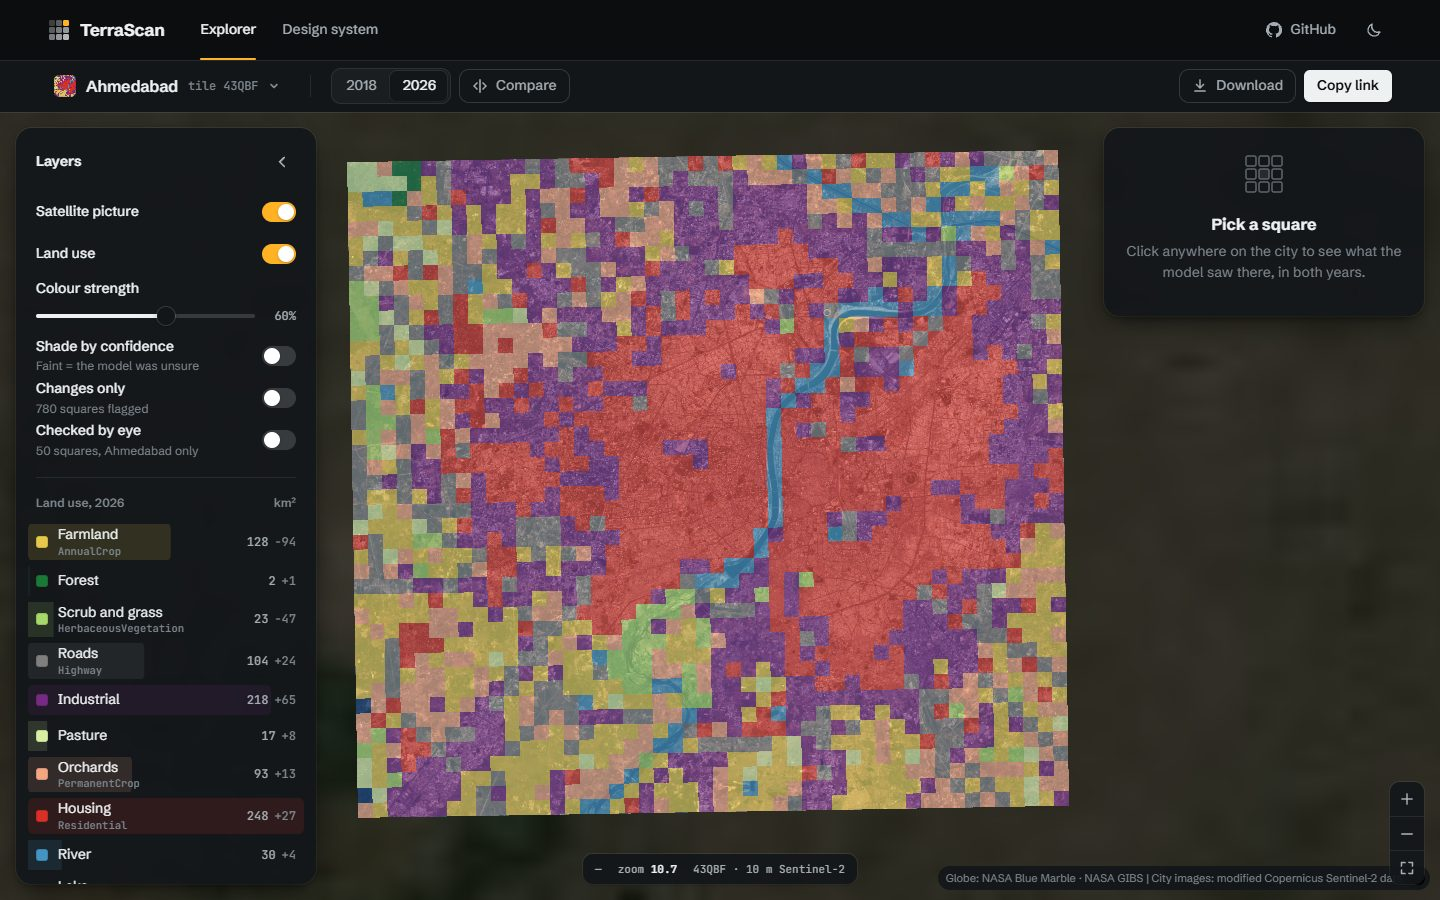
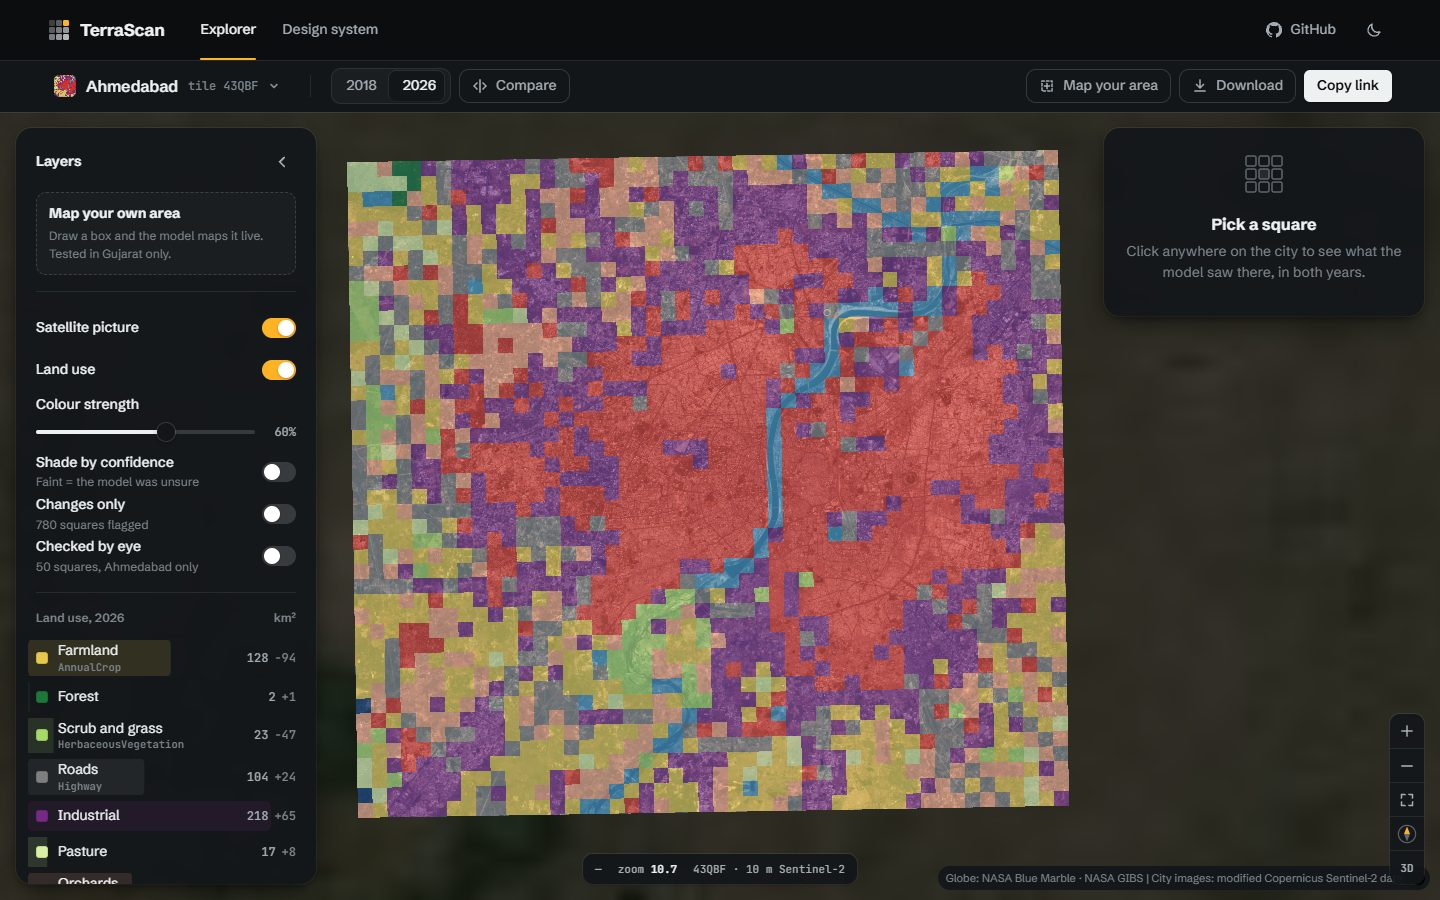
step5.3b (part 3): map view fixes from user feedback - opening lands flat and centred, compass + 3D/2D button, turn/tilt tip, gentler wheel zoom, no turning while drawing an area; live API checked on the laptop

diff --git a/web/src/pages/Explorer.tsx b/web/src/pages/Explorer.tsx
@@ -10,6 +10,7 @@ import { LayersPanel, type Layers, type Pair } from "../explorer/LayersPanel";
 import { GLOBE, playOpening, type EndCamera } from "../explorer/opening";
 import { Toolbar } from "../explorer/Toolbar";
 import { useAreaMap } from "../explorer/useAreaMap";
+import { ViewControls } from "../explorer/ViewControls";
 import { cityBounds, DATA, loadCity } from "../lib/city";
 import { className } from "../lib/classes";
 import { getJson, pct, useJson } from "../lib/data";
@@ -92,13 +93,13 @@ function ExplorerView({ index }: { index: Index }) {
   const pad = useCallback(() => phone()
     ? { top: 40, bottom: Math.min(snapPx(sheetNow, stage.current?.clientHeight ?? 700), (stage.current?.clientHeight ?? 700) / 2) + 16, left: 16, right: 16 }
     : { top: 40, bottom: 70, left: panel ? 340 : 40, right: 360 }, [panel, sheetNow]);
-  const fitCam = useCallback((tilt: boolean): EndCamera => {
+  // The whole city, looking straight down, north up, in the middle of the space between the panels. (The 3D
+  // button in the zoom bar tilts it.)
+  const fitCam = useCallback((): EndCamera => {
     const m = tm.current!.map;
-    const pitch = tilt ? 50 : 0, bearing = tilt ? -14 : 0;
-    const cam = m.cameraForBounds(cityBounds(live.current.city!.summary), { padding: pad(), pitch, bearing });
-    // cameraForBounds already shifts the centre for the panels, so the camera itself gets no padding. A tilted
-    // fit comes out cautious (the far edge looks small), so the tilted end zooms in a little more.
-    return { center: cam?.center, zoom: (cam?.zoom ?? 10) + (tilt ? 0.35 : 0), pitch, bearing, padding: { top: 0, bottom: 0, left: 0, right: 0 } };
+    const cam = m.cameraForBounds(cityBounds(live.current.city!.summary), { padding: pad(), pitch: 0, bearing: 0 });
+    // cameraForBounds already shifts the centre for the panels, so the camera itself gets no padding.
+    return { center: cam?.center, zoom: cam?.zoom ?? 10, pitch: 0, bearing: 0, padding: { top: 0, bottom: 0, left: 0, right: 0 } };
   }, [pad]);
 
   // ---------- Create the map (once the first city is loaded) ----------
@@ -118,8 +119,8 @@ function ExplorerView({ index }: { index: Index }) {
         setReady(true);
         if (FRESH && !reducedMotion()) {
           setIntro(true);
-          playOpening(m, fitCam(true), () => setIntro(false));
-        } else m.jumpTo(fitCam(false));
+          playOpening(m, fitCam(), () => setIntro(false));
+        } else m.jumpTo(fitCam());
       });
       // Hover label: text and outline change only when the pointer moves to another square; the label is moved with
       // a transform once per frame.
@@ -207,6 +208,13 @@ function ExplorerView({ index }: { index: Index }) {
     if (m && (m.getPitch() || m.getBearing())) m.easeTo({ pitch: 0, bearing: 0, duration: reducedMotion() ? 0 : 500, essential: true });
     area.open();
   }, [area.open]);
+  // While the tool is open the map cannot be turned or tilted (a drawn box must stay a true lon/lat box).
+  useEffect(() => {
+    const m = tm.current?.map;
+    if (!ready || !m) return;
+    if (areaOpen) { m.dragRotate.disable(); m.touchZoomRotate.disableRotation(); m.touchPitch.disable(); m.keyboard.disableRotation(); }
+    else { m.dragRotate.enable(); m.touchZoomRotate.enableRotation(); m.touchPitch.enable(); m.keyboard.enableRotation(); }
+  }, [ready, areaOpen]);
   const toggleArea = () => (area.mode === "off" ? openArea() : area.close());
   const middleBox = useCallback(() => {
     // A box in the middle of the part of the map that can be seen (on a phone the sheet covers the bottom), 60% of
@@ -287,12 +295,12 @@ function ExplorerView({ index }: { index: Index }) {
       tm.current?.setCity(next.base, next.summary);
       tmB.current?.setCity(next.base, next.summary);
       live.current.city = next;
-      const cam = fitCam(false);
+      const cam = fitCam();
       reducedMotion() ? tm.current?.map.jumpTo(cam) : tm.current?.map.flyTo({ ...cam, duration: 2200, curve: 1.4, essential: true });
     } catch (e) { setError((e as Error).message); }
   }, [city, years, fitCam]);
 
-  const showToast = (msg: string) => { setToast(msg); window.setTimeout(() => setToast(null), 2200); };
+  const showToast = (msg: string, ms = 2200) => { setToast(msg); window.setTimeout(() => setToast(null), ms); };
   const copyLink = async () => {
     try { await navigator.clipboard.writeText(location.href); showToast("Link copied: it opens this exact view"); }
     catch { showToast("Copy failed: copy the address bar instead"); }
@@ -375,7 +383,9 @@ function ExplorerView({ index }: { index: Index }) {
           <div className="zoombar">
             <button type="button" aria-label="Zoom in" onClick={() => tm.current?.map.zoomIn()}><svg viewBox="0 0 16 16" fill="none" stroke="currentColor" strokeWidth="1.6" strokeLinecap="round" aria-hidden="true"><path d="M8 3v10M3 8h10" /></svg></button>
             <button type="button" aria-label="Zoom out" onClick={() => tm.current?.map.zoomOut()}><svg viewBox="0 0 16 16" fill="none" stroke="currentColor" strokeWidth="1.6" strokeLinecap="round" aria-hidden="true"><path d="M3 8h10" /></svg></button>
-            <button type="button" aria-label="Fit the city, flat" onClick={() => tm.current?.map.flyTo({ ...fitCam(false), duration: reducedMotion() ? 0 : 1200, essential: true })}><svg viewBox="0 0 16 16" fill="none" stroke="currentColor" strokeWidth="1.6" strokeLinecap="round" strokeLinejoin="round" aria-hidden="true"><path d="M2.5 6V2.5H6M10 2.5h3.5V6M13.5 10v3.5H10M6 13.5H2.5V10" /></svg></button>
+            <button type="button" aria-label="Fit the city, flat and north up" title="Fit the city, flat and north up" onClick={() => tm.current?.map.flyTo({ ...fitCam(), duration: reducedMotion() ? 0 : 1200, essential: true })}><svg viewBox="0 0 16 16" fill="none" stroke="currentColor" strokeWidth="1.6" strokeLinecap="round" strokeLinejoin="round" aria-hidden="true"><path d="M2.5 6V2.5H6M10 2.5h3.5V6M13.5 10v3.5H10M6 13.5H2.5V10" /></svg></button>
+            <ViewControls map={ready ? tm.current?.map ?? null : null} disabled={areaOpen}
+              onTilt={(on) => on && showToast(phone() ? "Tip: drag with two fingers to turn and tilt" : "Tip: right-drag or Ctrl + drag to turn and tilt", 3500)} />
           </div>
         </div>
       </div>

diff --git a/web/src/explorer/view.test.tsx b/web/src/explorer/view.test.tsx
@@ -1,0 +1,75 @@
+// Tests for the compass and the 2D / 3D button (ViewControls). The real map needs WebGL, so a small fake map stands
+// in: it remembers its bearing and pitch, its listeners, and the last easeTo it was asked for.
+import { act, render, screen } from "@testing-library/react";
+import userEvent from "@testing-library/user-event";
+import { describe, expect, it } from "vitest";
+import { needleTransform, TILT_3D, ViewControls, type ViewMap } from "./ViewControls";
+
+function fakeMap(bearing = 0, pitch = 0) {
+  const fns: Record<string, (() => void)[]> = {};
+  const m = {
+    bearing, pitch, last: null as null | { bearing?: number; pitch?: number },
+    getBearing: () => m.bearing,
+    getPitch: () => m.pitch,
+    on: (t: string, fn: () => void) => { (fns[t] ??= []).push(fn); },
+    off: (t: string, fn: () => void) => { fns[t] = (fns[t] ?? []).filter((f) => f !== fn); },
+    easeTo: (o: { bearing?: number; pitch?: number }) => { m.last = o; },
+    // Moves the fake map the way a drag would, firing the same events as MapLibre.
+    move: (b: number, p: number) => { m.bearing = b; m.pitch = p; act(() => { for (const t of ["rotate", "pitch", "pitchend"]) for (const f of fns[t] ?? []) f(); }); },
+    listeners: () => Object.values(fns).flat().length,
+  };
+  return m;
+}
+
+describe("needleTransform", () => {
+  it("turns against the map (so the needle keeps pointing north) and leans back by the tilt", () => {
+    expect(needleTransform(30, 0)).toBe("rotateX(0deg) rotateZ(-30deg)");
+    expect(needleTransform(-14.4, 50)).toBe("rotateX(30deg) rotateZ(14deg)"); // leans back 60% of the tilt
+  });
+});
+
+describe("ViewControls", () => {
+  it("is switched off until the map is ready", () => {
+    render(<ViewControls map={null} disabled={false} />);
+    expect(screen.getByRole("button", { name: "Point north" })).toBeDisabled();
+    expect(screen.getByRole("button", { name: "3D" })).toBeDisabled();
+  });
+
+  it("the compass follows the map and points north again when clicked", async () => {
+    const m = fakeMap(0, 0);
+    render(<ViewControls map={m as unknown as ViewMap} disabled={false} />);
+    const needle = screen.getByRole("button", { name: "Point north" }).querySelector("svg")!;
+    m.move(40, 20);
+    expect(needle.style.transform).toBe("rotateX(12deg) rotateZ(-40deg)");
+    await userEvent.click(screen.getByRole("button", { name: "Point north" }));
+    expect(m.last).toMatchObject({ bearing: 0 });
+  });
+
+  it("3D tilts a flat map, and shows when the map is tilted (also by dragging)", async () => {
+    const m = fakeMap(0, 0), said: boolean[] = [];
+    render(<ViewControls map={m as unknown as ViewMap} disabled={false} onTilt={(on) => said.push(on)} />);
+    const b = screen.getByRole("button", { name: "3D" });
+    expect(b).toHaveAttribute("aria-pressed", "false");
+    await userEvent.click(b);
+    expect(m.last).toMatchObject({ pitch: TILT_3D });
+    m.move(0, 45); // the map finished tilting
+    expect(b).toHaveAttribute("aria-pressed", "true");
+    await userEvent.click(b);
+    expect(m.last).toMatchObject({ pitch: 0 });
+    expect(said).toEqual([true, false]);
+  });
+
+  it("can't tilt while an area is being drawn", () => {
+    render(<ViewControls map={fakeMap() as unknown as ViewMap} disabled={true} />);
+    expect(screen.getByRole("button", { name: "3D" })).toBeDisabled();
+    expect(screen.getByRole("button", { name: "Point north" })).toBeEnabled();
+  });
+
+  it("stops listening to the map when it goes away", () => {
+    const m = fakeMap();
+    const { unmount } = render(<ViewControls map={m as unknown as ViewMap} disabled={false} />);
+    expect(m.listeners()).toBe(3);
+    unmount();
+    expect(m.listeners()).toBe(0);
+  });
+});

diff --git a/web/src/explorer/ViewControls.tsx b/web/src/explorer/ViewControls.tsx
@@ -1,0 +1,50 @@
+// The compass and the 2D / 3D button in the zoom bar (like Google Earth).
+// - The compass needle turns with the map and leans back when the map is tilted. Click it: north up again.
+// - 3D tilts the map (you look across the city); 2D looks straight down. The button shows which one is on.
+// The needle is moved by changing its style directly, so turning the map does not re-draw the whole page.
+import { useEffect, useRef, useState } from "react";
+import { reducedMotion } from "../lib/motion";
+
+export const TILT_3D = 55; // degrees; MapLibre allows up to 60
+const FLAT_BELOW = 5; // a map tilted less than this counts as 2D
+
+// Only the parts of the MapLibre map this component uses (a small fake map is enough in the tests).
+export type ViewMap = {
+  getBearing(): number;
+  getPitch(): number;
+  on(type: "rotate" | "pitch" | "pitchend", fn: () => void): unknown;
+  off(type: "rotate" | "pitch" | "pitchend", fn: () => void): unknown;
+  easeTo(o: { bearing?: number; pitch?: number; duration: number; essential: true }): unknown;
+};
+
+// The needle's CSS: lean back with the tilt, then turn against the map's rotation (so it keeps pointing north).
+// It leans back only 60% of the tilt: leaning the full 55° flattens it too much to read.
+export function needleTransform(bearing: number, pitch: number): string {
+  return `rotateX(${Math.round(pitch * 0.6)}deg) rotateZ(${Math.round(-bearing)}deg)`;
+}
+
+// onTilt: told when the 3D button turns 3D on (true) or off (false), e.g. to show how to turn the map by hand.
+export function ViewControls({ map, disabled, onTilt }: { map: ViewMap | null; disabled: boolean; onTilt?: (on: boolean) => void }) {
+  const needle = useRef<SVGSVGElement>(null);
+  const [tilted, setTilted] = useState(false);
+
+  useEffect(() => {
+    if (!map) return;
+    const turn = () => { if (needle.current) needle.current.style.transform = needleTransform(map.getBearing(), map.getPitch()); };
+    const settle = () => setTilted(map.getPitch() >= FLAT_BELOW);
+    turn(); settle();
+    map.on("rotate", turn); map.on("pitch", turn); map.on("pitchend", settle);
+    return () => { map.off("rotate", turn); map.off("pitch", turn); map.off("pitchend", settle); };
+  }, [map]);
+
+  const ms = (n: number) => (reducedMotion() ? 0 : n);
+  return <>
+    <button type="button" className="compass" aria-label="Point north" title="Point north" disabled={!map}
+      onClick={() => map?.easeTo({ bearing: 0, duration: ms(500), essential: true })}>
+      <svg ref={needle} viewBox="0 0 20 20" aria-hidden="true"><circle cx="10" cy="10" r="8.6" fill="none" stroke="currentColor" strokeWidth="1.2" opacity="0.5" /><path d="M10 2.5 13 10H7Z" fill="var(--accent)" /><path d="M10 17.5 7 10h6Z" fill="currentColor" opacity="0.55" /></svg>
+    </button>
+    <button type="button" className="tilt" aria-pressed={tilted} disabled={!map || disabled}
+      title={disabled ? "Drawing an area needs a flat map" : tilted ? "3D is on: click for a straight-down view" : "Tilt the map to see it in 3D"}
+      onClick={() => { map?.easeTo({ pitch: tilted ? 0 : TILT_3D, duration: ms(700), essential: true }); onTilt?.(!tilted); }}>3D</button>
+  </>;
+}

diff --git a/web/src/explorer/opening.ts b/web/src/explorer/opening.ts
@@ -1,4 +1,5 @@
-// The Explorer's opening: the globe turns gently, then the camera flies down to the city and tilts into 3D.
+// The Explorer's opening: the globe turns gently, then the camera flies down to the city and ends looking straight
+// down at it (the 3D button tilts it).
 // Any click, scroll, touch or key skips straight to the end. With reduced motion it starts at the end.
 import type { Map as MlMap, CameraOptions, PaddingOptions } from "maplibre-gl";
 import { reducedMotion } from "../lib/motion";
@@ -35,7 +36,7 @@ export function playOpening(map: MlMap, end: EndCamera, onDone: () => void) {
     if (t - t0 < SPIN_MS) raf = requestAnimationFrame(spin);
   };
   raf = requestAnimationFrame(spin);
-  // 2. Then a long, smooth flight down to the city, ending tilted.
+  // 2. Then a long, smooth flight down to the city.
   // (The turning stops first: one more turning step after the flight starts would cancel the flight.)
   timer = window.setTimeout(() => {
     if (done) return;

diff --git a/web/src/explorer/Explorer.css b/web/src/explorer/Explorer.css
@@ -175,6 +175,12 @@
 .zoombar button + button { border-top: 1px solid var(--line); }
 .zoombar button:hover { background: var(--line); color: var(--ink); }
 .zoombar svg { width: 16px; height: 16px; }
+.zoombar button:disabled { opacity: 0.4; cursor: default; background: transparent; }
+/* Compass: the needle turns with the map and leans back when it is tilted */
+.zoombar .compass svg { width: 20px; height: 20px; transform-origin: 50% 50%; }
+/* 3D button: lit when the map is tilted */
+.zoombar .tilt { font: 700 11px var(--mono); letter-spacing: 0.02em; }
+.zoombar .tilt[aria-pressed="true"] { background: var(--accent-wash); color: var(--accent-strong); }
 .stage[data-inspect="true"] .zoombar { right: calc(320px + var(--s-4) * 2); }
 
 /* Hover label */

diff --git a/web/src/map/TerraMap.ts b/web/src/map/TerraMap.ts
@@ -129,6 +129,9 @@ export class TerraMap {
       attributionControl: { compact: true, customAttribution: "City images: modified Copernicus Sentinel-2 data" },
       fadeDuration: 150,
     });
+    // A mouse wheel zooms a little gentler than MapLibre's default (1/450), so the globe and the city don't jump.
+    // It always zooms towards the pointer.
+    this.map.scrollZoom.setWheelZoomRate(1 / 600);
   }
 
   private landuseOpacity(y: string): number | ExpressionSpecification {

diff --git a/PROGRESS.md b/PROGRESS.md
@@ -10,15 +10,22 @@ waiting on you
 <!-- one of: not started | in progress | waiting on you | done -->
 
 ## Waiting on you
-5.3b is built (both parts, two commits). Before it can be ticked, please do these on your laptop:
-1. Look at it on your phone and in your browser (`cd web && npm run dev`): phone bottom sheet, Compare chip, credits,
-   and "Map your own area" (the button is in the toolbar on desktop and in the Layers sheet header on a phone).
-2. Try "Map your own area" for real. Claude could NOT: the model file (models/efficientnet_b0_india/seed42/model.onnx)
-   and the internet to Sentinel-2 are not in Claude's cloud container. In one terminal from the repo root:
-   `uvicorn api.main:default_app --factory --port 8000`, then open the site (the dev server talks to
-   http://localhost:8000 by itself). Draw a ~3 km box over Ahmedabad and tell Claude what happens (time, any error).
-3. Everything is already on GitHub (branch claude/ig-5.3b-remaining-work-rcpfv1). On your laptop: `git fetch origin`,
-   then `git checkout claude/ig-5.3b-remaining-work-rcpfv1` (or `git pull` if you are already on it).
+5.3b is built (two commits from the cloud session, plus one round of map fixes on the laptop, 2026-11-07).
+Done on the laptop by Claude:
+- Checked "Map your own area" for real (the cloud session could not): API on port 8000, a ~3 km box over central
+  Ahmedabad, 2018 and 2026 both answered (about 20 s each), and a ~30 km box was refused. Only the API was called
+  directly (curl); the button on the page itself is part of your check below.
+- Your feedback ("globe sits low, the city stays slanted, turning the map is not clear") fixed:
+  the opening now lands flat (straight down, centred between the panels); a compass (turns with the map, click =
+  north up) and a 3D / 2D button in the zoom bar; a tip on how to turn by hand when 3D is switched on; mouse-wheel
+  zoom a little gentler; the map can't be turned or tilted while an area is being drawn.
+  New screenshots in reports/design/5.3b/ (opening-end-*, 3d-*).
+Please, on your laptop: `cd web && npm run dev`, and in another terminal from the repo root
+`.venv\Scripts\python -m uvicorn api.main:default_app --factory --port 8000`. Then:
+1. Look at the Explorer in the browser and on your phone: opening, compass, 3D button, bottom sheet, Compare.
+2. Press "Map your own area" and draw a small box over Ahmedabad (works on the laptop; on the phone it can't reach
+   the API until it is online in step 6.2).
+3. Branch: claude/ig-5.3b-remaining-work-rcpfv1 (the new commit is local; push it when you are happy).
 When you OK it, Claude ticks 5.3b and the next step is 5.3c.
 Note for adding npm packages: npm 10.9.2 crashes when adding vitest ("edgesOut" bug), so packages are added with
 `npx -y npm@11.21.1 install ...`; plain `npm ci` works fine.
